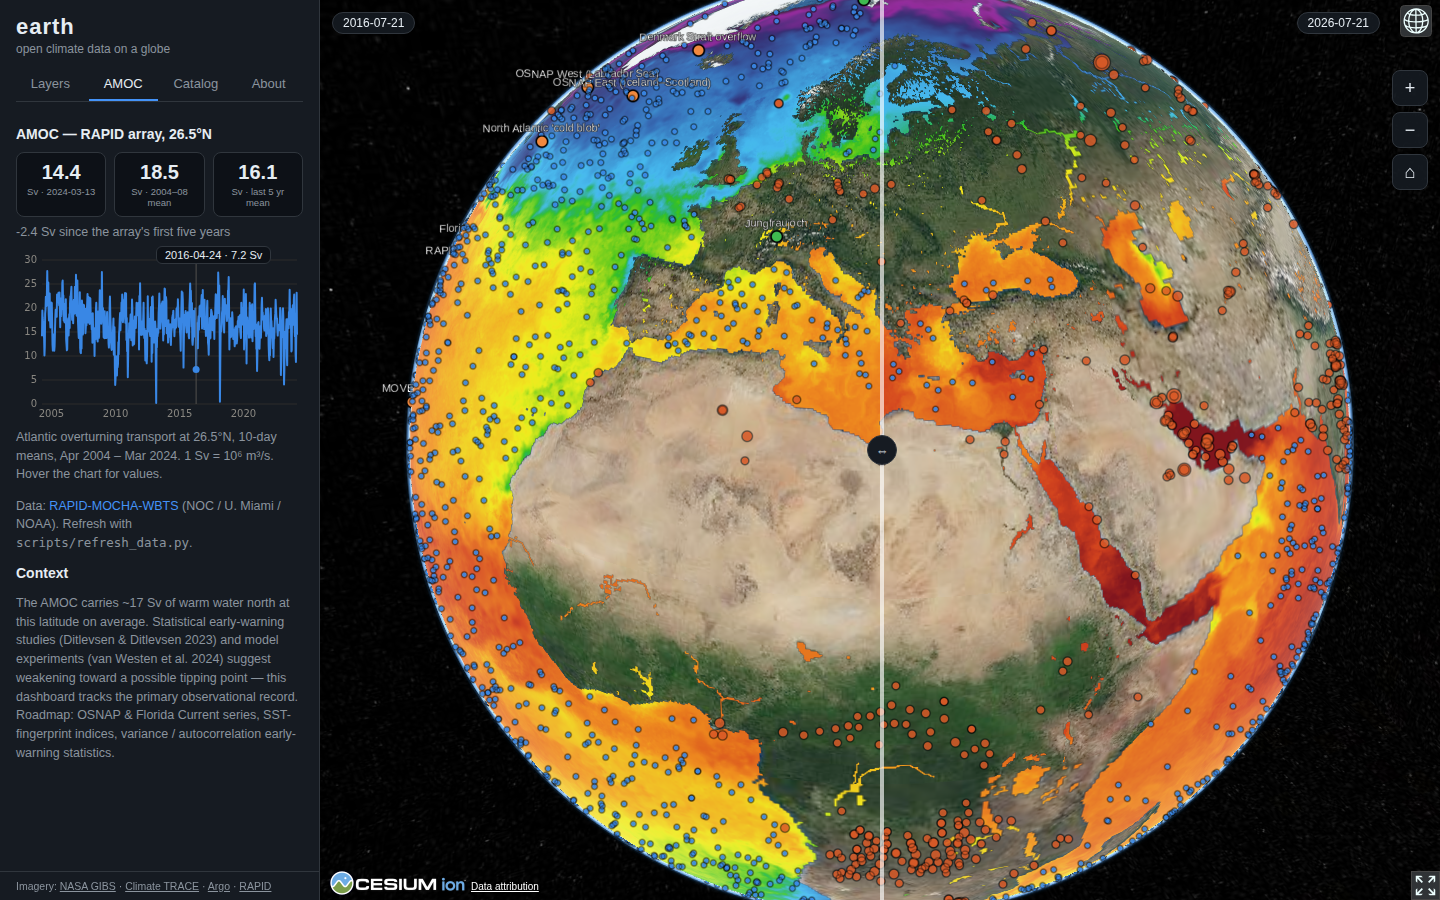
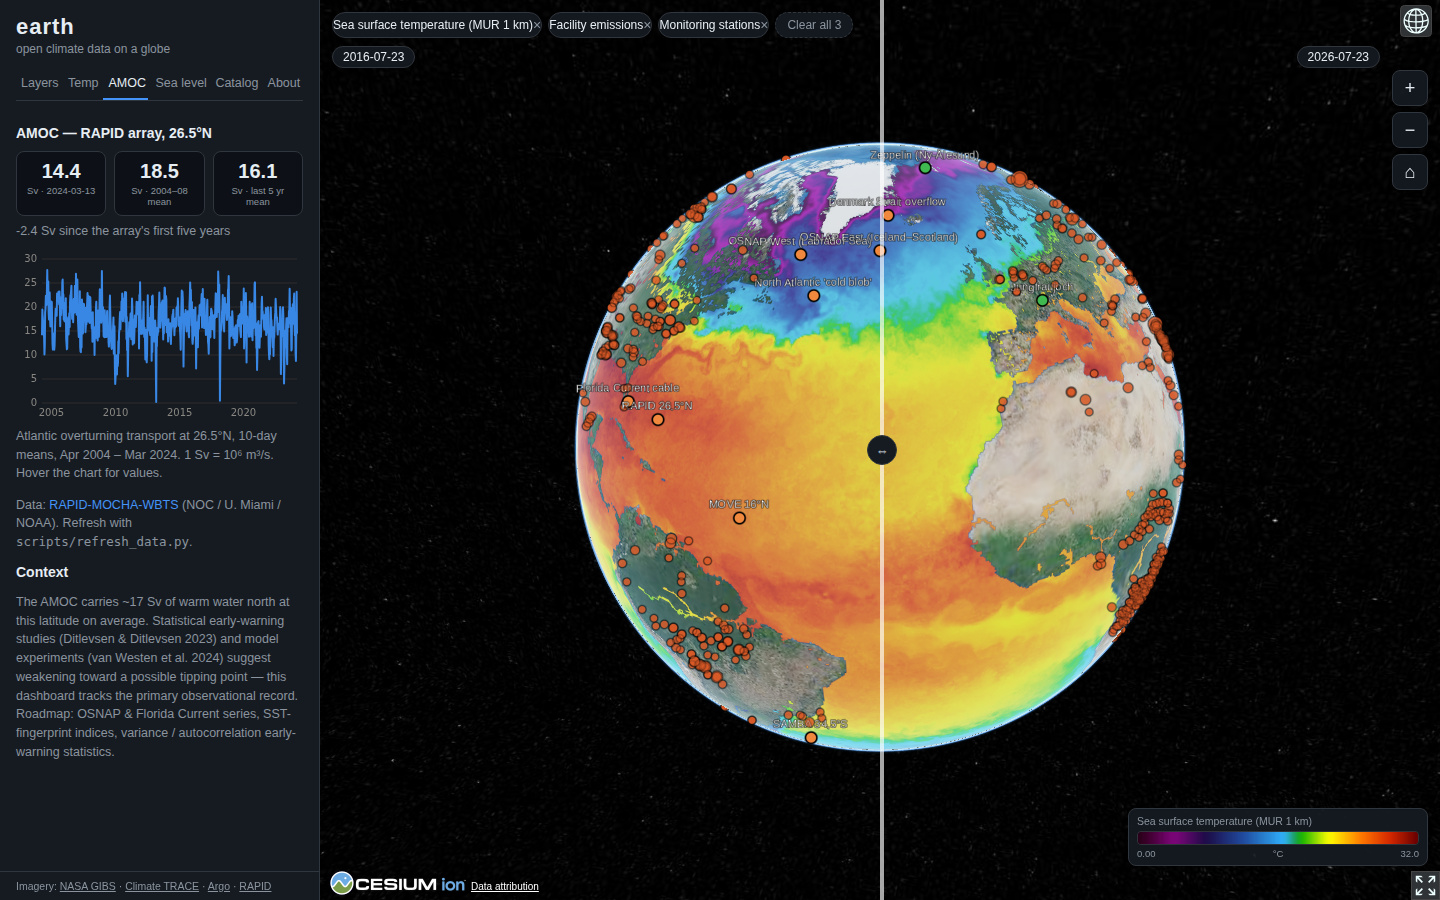
README: link the live demo up top, and bring it back in sync with the app
The README had drifted a long way behind the code. It advertised 241 catalog
records (244), 103 globe-ready datasets (108) and 22 specs (59), listed none of
the grid climatologies, glaciers, GISTEMP dashboard, salinity/chlorophyll/LST
layers, hover cards, value probe, dateless toasts or active-layer chips, and
still had "live point data" and "AMOC dashboard" on the roadmap months after
both shipped.

It also claimed "Pages only deploys when it is green", which is the opposite of
what the workflow does — the deploy job runs in parallel with the tests on
purpose, so that a prototype ships fixes forward rather than sitting behind a
red run. Stating the real policy is better than quietly having two.

Screenshot regenerated: the old one predates the Temp and Sea level tabs, so it
showed a four-tab app. Added scripts/screenshot.js so the next person doesn't
have to reconstruct the setup by hand.

Tabs now size to their labels instead of splitting the width equally: with six
of them in a 320 px sidebar the equal split wrapped "Sea level" onto a second
line, which the new screenshot made obvious.

diff --git a/scripts/screenshot.js b/scripts/screenshot.js
@@ -1,0 +1,63 @@
+#!/usr/bin/env node
+// Regenerates docs/screenshot.png (the README hero image).
+//
+// Run it the same way the tests run — through the sandbox proxies, so the
+// globe gets real GIBS tiles even where the browser has no direct egress:
+//
+//   scripts/run_tests.sh  ... is for tests; for the screenshot use:
+//   python3 scripts/test_proxy.py 8081 https://gibs.earthdata.nasa.gov &
+//   python3 scripts/test_proxy.py 8082 https://api.gbif.org &
+//   python3 -m http.server 8080 &
+//   MIRROR=1 node scripts/screenshot.js
+//
+// Without MIRROR it just points at http://localhost:8080 and uses the real
+// network, which is what you want on a normal machine.
+"use strict";
+const { chromium } = require("@playwright/test");
+const path = require("path");
+
+const BASE = process.env.BASE_URL || "http://localhost:8080";
+const CDN = "https://cdnjs.cloudflare.com/ajax/libs/cesium/1.133.1";
+const OUT = path.join(__dirname, "..", "docs", "screenshot.png");
+
+(async () => {
+  const browser = await chromium.launch({
+    executablePath: process.env.CHROMIUM_PATH || undefined,
+  });
+  const page = await browser.newPage({ viewport: { width: 1440, height: 900 } });
+
+  if (process.env.MIRROR) {
+    const proxy = (re, from, to) =>
+      page.route(re, async (route) => {
+        try {
+          const url = route.request().url().replace(from, to)
+            .replace("widgets.min.css", "widgets.css");
+          await route.fulfill({ response: await page.request.get(url) });
+        } catch {
+          await route.abort().catch(() => {});
+        }
+      });
+    await proxy(/https:\/\/cdnjs\.cloudflare\.com\/.*/, CDN, `${BASE}/_vendor/cesium`);
+    await proxy(/https:\/\/gibs\.earthdata\.nasa\.gov\/.*/,
+      "https://gibs.earthdata.nasa.gov", "http://localhost:8081");
+    await proxy(/https:\/\/api\.gbif\.org\/.*/, "https://api.gbif.org", "http://localhost:8082");
+  }
+
+  await page.goto(BASE);
+  await page.waitForFunction(() => window.__earth?.viewer, null, { timeout: 60000 });
+
+  // A representative state rather than the bare default: SST and the station
+  // network are on by default, Climate TRACE adds a third chip, the split
+  // comparison shows the swipe divider and its date labels sitting below the
+  // chip bar, and the AMOC dashboard fills the sidebar with real content.
+  await page.check("#toggle-climatetrace");
+  await page.selectOption("#compare-select", "10");
+  await page.selectOption("#compare-mode", "split");
+  await page.click("#tab-amoc");
+
+  // Let the tiles for both sides of the divider settle.
+  await page.waitForTimeout(15000);
+  await page.screenshot({ path: OUT });
+  await browser.close();
+  console.log(`wrote ${OUT}`);
+})();

diff --git a/src/style.css b/src/style.css
@@ -33,10 +33,13 @@ html, body {
 #sidebar h1 { margin: 0; font-size: 22px; letter-spacing: 1px; }
 #sidebar .tagline { margin: 2px 0 12px; color: var(--fg-dim); font-size: 12px; }
 
-nav { display: flex; gap: 4px; border-bottom: 1px solid var(--border); }
+nav { display: flex; gap: 2px; border-bottom: 1px solid var(--border); }
+/* Tabs size to their labels rather than sharing the width equally: with six of
+   them in a 320 px sidebar, an equal split wrapped "Sea level" onto two lines. */
 .tab {
-  flex: 1; padding: 8px 0; background: none; border: none; color: var(--fg-dim);
-  border-bottom: 2px solid transparent; cursor: pointer; font-size: 13px;
+  flex: 0 1 auto; padding: 8px 5px; background: none; border: none; color: var(--fg-dim);
+  border-bottom: 2px solid transparent; cursor: pointer; font-size: 12.5px;
+  white-space: nowrap; min-width: 0;
 }
 .tab.active { color: var(--fg); border-bottom-color: var(--accent); }
 

diff --git a/README.md b/README.md
@@ -1,47 +1,31 @@
 # earth 🌍
 
+### ▶ **[Open the live globe →](https://blauewelt.github.io/earth/)**
+
 **Open climate data on a 3D globe — and, eventually, predictions from it.**
 
-`earth` is a prototype for exploring the world's open climate data on an interactive CesiumJS globe, backed by a curated, machine-readable catalog of **241 open climate datasets** across atmosphere, ocean & AMOC, cryosphere, satellite platforms, model projections, greenhouse gases, and impacts.
+`earth` is a prototype for exploring the world's open climate data on an interactive CesiumJS globe, backed by a curated, machine-readable catalog of **244 open climate datasets** across atmosphere, ocean & AMOC, cryosphere, satellite platforms, model projections, greenhouse gases, and impacts.
 
 The long-term goal: layer enough observational and model data onto the globe to drive real prediction pipelines — starting with the question *will the AMOC collapse, and when?*
 
-![screenshot](docs/screenshot.png)
+[![screenshot](docs/screenshot.png)](https://blauewelt.github.io/earth/)
 
 ## Features (prototype)
 
-- **Zero API keys.** All imagery streams from [NASA GIBS](https://www.earthdata.nasa.gov/engage/open-data-services-software/earthdata-developer-portal/gibs-api) WMTS — no registration, no tokens, no build step.
-- **Time-dynamic layers** with a date picker, per-layer opacity, per-layer **doc links and legends**:
-  sea surface temperature (MUR 1 km), SST anomalies, true-color VIIRS, IMERG precipitation, AMSR2 sea ice, MODIS snow cover, aerosol optical depth, Black Marble night lights.
-- **Comparison** — any dated layer vs 1/2/5/10/20 years ago: side-by-side swipe with a draggable divider, or a **computed per-pixel difference** for SST (GIBS colormap inverted to °C client-side, diverging warmer/cooler).
-- **Rolling aggregation** — an *Aggregate* slider (1–730 days) averages SST over the past N days ending on the chosen date, independent of the comparison mode. "Past 365 days vs 10 years ago" reveals broad ocean warming and the subpolar cold blob cleanly, without daily weather noise.
-- **SST ensemble** — combines independent GHRSST L4 analyses (MUR, OISST, GAMSSA) client-side into a **mean** or a **spread** map; the spread highlights where analyses disagree (fronts, eddies, under-observed ocean).
-- **Live data layers** — Climate TRACE's top 1,000 facility emitters and the ~3,800-float Argo fleet as clickable points (`scripts/refresh_data.py` refreshes snapshots).
-- **AMOC dashboard** — the RAPID 26.5°N overturning transport record (2004–2024) with stat tiles and a hoverable chart.
-- **Sea-level budget dashboard** — observed global mean sea level 1900–2018 decomposed into its causes (thermal expansion, glaciers, Greenland, Antarctica, land water), with the summed budget tracking the observed line to show *closure*, plus modern satellite altimetry (Frederikse et al. 2020 + NOAA).
-- **Biodiversity layer** — GBIF occurrence-density tiles (3.9 B records, key-free), with a curated set of climate-indicator species (Atlantic mackerel, emperor penguin, staghorn coral …) whose shifting ranges are a visible fingerprint of warming. See [docs/SPECIES_AND_CLIMATE.md](docs/SPECIES_AND_CLIMATE.md).
-- **Zoom** — scroll, touch pinch, trackpad pinch (ctrl+wheel), and on-globe buttons.
-- **AMOC monitoring network** — the RAPID, OSNAP, MOVE, SAMBA arrays, the Florida Current cable, the subpolar "cold blob" fingerprint region, plus reference GHG stations (Mauna Loa, Jungfraujoch, …) as clickable markers with data links.
-- **Dataset catalog browser** — search and filter all 241 cataloged datasets by domain, AMOC relevance, and globe-readiness, straight from [`data/catalog.json`](data/catalog.json).
-
-## Testing
-
-The repo ships a Playwright regression suite (22 specs): data-snapshot integrity
-(catalog, RAPID series, Argo fleet, Climate TRACE, stations) and full browser tests
-(GIBS tiling-scheme math incl. the Pacific partial-tile regression, layer/date
-handling, comparison split + computed-delta mode, zoom & pinch gestures, point
-layers, legends, AMOC dashboard, catalog browser). CI runs the suite on every push
-and PR; **Pages only deploys when it is green.**
-
-```bash
-npm ci
-npx playwright install --with-deps chromium
-npx playwright test
-```
-
-In CI the suite reaches the real CDN, NASA GIBS, and GBIF. In a network-restricted
-sandbox, set `MIRROR=1` and run small local proxies for GIBS (`:8081`) and GBIF
-(`:8082`) plus the vendored Cesium under `_vendor/cesium`.
+- **Zero API keys, no build step.** All imagery streams from [NASA GIBS](https://www.earthdata.nasa.gov/engage/open-data-services-software/earthdata-developer-portal/gibs-api) WMTS and [GBIF](https://www.gbif.org/) — no registration, no tokens. Everything else is baked into small static JSON snapshots, so the page has no server of its own.
+- **Time-dynamic raster layers** with a date picker and per-layer opacity: true colour (VIIRS), sea surface temperature (MUR 1 km), SST anomalies (MUR25), precipitation (GPM IMERG V07, daily and 30-min), sea ice concentration (AMSR2), snow cover (MODIS NDSI), aerosol optical depth (MODIS), land surface temperature (MODIS), chlorophyll-*a* (PACE), sea surface salinity (SMAP, monthly), night lights (Black Marble).
+- **Climatology grid layers** rendered client-side from baked JSON: GPCP v2.3 global precipitation (2.5°), OISST v2.1 SST 1991–2020 (1°), E-OBS v31 European precipitation (0.25°), and the MeteoSwiss 1991–2020 Swiss precipitation normal (~2 km).
+- **Comparison** — any dated layer vs 1/2/5/10/20 years ago: side-by-side swipe with a draggable divider, or a **computed per-pixel difference** (the GIBS colormap is inverted client-side back to physical units, then re-ramped diverging warmer/cooler). Layers where differencing would be unsound say so instead of pretending.
+- **Rolling aggregation** — an *Aggregate* slider (1–730 days) averages over the past N days ending on the chosen date, for every continuous layer, and orthogonally to the comparison mode. The mean is per pixel with missing samples excluded, so clear-sky-only products fill their gaps instead of darkening. "Past 365 days vs 10 years ago" reveals broad ocean warming and the subpolar cold blob cleanly, without daily weather noise.
+- **SST ensemble** — combines independent GHRSST L4 analyses (MUR, OISST, GAMSSA) client-side into a **mean** or a **spread** map; the spread highlights where the analyses disagree (fronts, eddies, under-observed ocean).
+- **Every layer explains itself** — the title is a link to the dataset's own documentation, and a hover card gives a plain-language gist plus what period is *recorded*, at what *interval*, and at what *spatial* granularity. Colormapped layers carry an interactive legend, and hovering the globe probes the actual value under the cursor.
+- **Active-layer chips** on the globe list what is currently switched on, so any layer can be turned off in one click from any tab — including the dashboards, where the layer list isn't on screen at all.
+- **Point and inventory layers** — Climate TRACE's top 1,000 facility emitters · the ~3,800-float active Argo fleet · the AMOC monitoring network (RAPID, OSNAP, MOVE, SAMBA, the Florida Current cable, the subpolar "cold blob" region) and reference GHG stations (Mauna Loa, Jungfraujoch, …) as clickable markers with data links · all 274,531 glaciers of the Randolph Glacier Inventory v7, colourable by extent or by their 2000–2020 melt rate from Hugonnet et al. 2021 (240,542 matched; ~78% thinning, and the Karakoram anomaly is visible).
+- **Biodiversity layer** — GBIF occurrence-density tiles (3.9 B records, key-free) with a grouped picker: broad taxonomic categories (kingdoms, major animal and plant classes, humans) plus curated climate-indicator species (Atlantic mackerel, emperor penguin, staghorn coral …) whose shifting ranges are a visible fingerprint of warming. See [docs/SPECIES_AND_CLIMATE.md](docs/SPECIES_AND_CLIMATE.md).
+- **Dashboards** — *Temp*: GISTEMP v4 land vs land+ocean warming, 1880–2025, with trends. *AMOC*: the RAPID 26.5°N overturning transport record (2004–2024) with stat tiles and a hoverable chart. *Sea level*: observed global mean sea level 1900–2018 decomposed into its causes (thermal expansion, glaciers, Greenland, Antarctica, land water), with the summed budget tracking the observed line to show *closure*, plus modern satellite altimetry (Frederikse et al. 2020 + NOAA).
+- **Dataset catalog browser** — search and filter all 244 cataloged datasets by domain, AMOC relevance, and globe-readiness, straight from [`data/catalog.json`](data/catalog.json).
+- **Honest about time.** Layers that ignore the date selector (climatologies, night lights, the point and inventory layers) announce it with a warning toast when switched on, rather than leaving the date picker silently inert.
+- **Navigation** — scroll wheel, touch pinch, trackpad pinch (ctrl+wheel) and on-globe buttons; zoom is distance-proportional, and follows the standard convention where spreading fingers apart or scrolling up zooms in. An optional grayscale base keeps coloured overlays and blue-negative deltas readable.
 
 ## Run it
 
@@ -54,54 +38,87 @@ python3 -m http.server 8080
 # open http://localhost:8080
 ```
 
-Or just open the GitHub Pages deployment (enabled via the included workflow).
+Or just use the [live deployment](https://blauewelt.github.io/earth/), which GitHub Pages builds from `main` via the included workflow.
+
+## Testing
+
+The repo ships a Playwright regression suite (59 specs): data-snapshot integrity
+(`tests/data.spec.js` — catalog, RAPID series, Argo fleet, Climate TRACE, stations,
+sea-level budget, GISTEMP, glaciers, species, the four climatology grids) and full
+browser tests (`tests/app.spec.js` — GIBS tiling-scheme math including the Pacific
+partial-tile regression, layer and date handling, comparison split and computed-delta
+mode, aggregation, hover cards, legends, the value probe, active-layer chips, zoom and
+pinch gestures, point layers, dashboards, catalog browser).
+
+```bash
+npm ci
+npx playwright install --with-deps chromium
+npx playwright test
+```
+
+CI runs the full suite on every push and PR. Note that **Pages deploys in parallel
+rather than behind the tests** — this is a prototype, so a red run signals a
+fix-forward, not a blocked release.
+
+In CI the suite reaches the real CDN, NASA GIBS and GBIF. In a network-restricted
+sandbox, `MIRROR=1` reroutes cdnjs to the vendored Cesium under `_vendor/cesium` and
+GIBS/GBIF to local forwarding proxies; `scripts/run_tests.sh` starts everything and
+runs the suite in one shot.
 
 ## Repository layout
 
 ```
 CLAUDE.md               standing instructions + holistic project documentation
 index.html              the app shell
-src/app.js              CesiumJS globe, GIBS layers, stations, catalog UI
+src/app.js              CesiumJS globe, GIBS layers, grids, points, dashboards, catalog UI
 src/style.css           dark UI theme
 data/catalog.json       244-dataset open climate data catalog (machine-readable)
 data/stations.geojson   AMOC arrays + GHG reference stations
 data/rapid_moc.json     RAPID 26.5N AMOC transport series
 data/sealevel.json      sea-level budget (Frederikse 2020) + NOAA altimetry
+data/gistemp.json       GISTEMP v4 land vs land+ocean anomalies
+data/glaciers.json      RGI v7 glaciers + Hugonnet 2000-2020 melt rates
+data/species.json       GBIF taxon keys and record counts for the biodiversity picker
 data/climatetrace.json  top-1000 facility emitters · data/argo.json  active float fleet
-data/*.json             gridded climatologies (gpcp, eobs, oisst, meteoswiss), glaciers, gistemp
-scripts/refresh_data.py regenerates every snapshot above
+data/{gpcp,oisst,eobs,meteoswiss}.json   gridded climatologies (shared grid format)
+scripts/refresh_data.py regenerates every snapshot above (one function per dataset)
 scripts/build_primer.py rebuilds docs/PRIMER.pdf (background-knowledge primer)
+scripts/run_tests.sh    sandbox test runner · scripts/test_proxy.py  GIBS/GBIF proxies
+scripts/screenshot.js   regenerates docs/screenshot.png (the image above)
+tests/                  Playwright suite (app behaviour + data integrity)
 docs/CATALOG.md         the catalog as a readable reference document
-.github/workflows/      GitHub Pages deployment
+.github/workflows/      test + GitHub Pages deployment
 ```
 
 Conventions and the full record of what has been built live in
 [CLAUDE.md](CLAUDE.md) — read it before contributing.
 
-## Analysis notes
+## Documentation
 
-[docs/COMBINING_DATASETS.md](docs/COMBINING_DATASETS.md) analyses which of the catalog's
-datasets measure the same quantity, which combinations are scientifically sound (SST
-ensembles, the sea-level budget, the AMOC state vector, land+ocean temperature blends),
-and why per-pixel differencing works for SST but not precipitation.
+| Document | What it covers |
+|---|---|
+| [docs/PRIMER.pdf](docs/PRIMER.pdf) | Background knowledge: GIBS and WMTS, tiling schemes, colormaps, satellite product levels, what a climatology is |
+| [docs/COMBINING_DATASETS.md](docs/COMBINING_DATASETS.md) | Which catalog datasets measure the same quantity, which combinations are scientifically sound (SST ensembles, the sea-level budget, the AMOC state vector, land+ocean blends), and why per-pixel differencing works for SST but not precipitation |
+| [docs/SPECIES_AND_CLIMATE.md](docs/SPECIES_AND_CLIMATE.md) | Why biodiversity occurrence data belongs in a climate app |
+| [docs/CATALOG.md](docs/CATALOG.md) | The full catalog as a readable reference |
 
 ## The data catalog
 
 The catalog ([readable](docs/CATALOG.md) · [JSON](data/catalog.json)) records for each dataset: provider, canonical URL, access method (API endpoints where they exist), formats, variables, spatial/temporal coverage, update cadence, license, and two flags:
 
-- `globe` — easy to render on a WebGL globe (tiles / Zarr / COG / gridded), 103 datasets
+- `globe` — easy to render on a WebGL globe (tiles / Zarr / COG / gridded), 108 datasets
 - `amoc` — directly relevant to AMOC state estimation or tipping-point prediction, 58 datasets
 
 ## Roadmap
 
-1. **More layers** — Zarr-streamed gridded fields (ARCO-ERA5, CMIP6 projections) rendered client-side; Copernicus Marine WMTS (currents, sea level).
-2. **Live point data** — Climate TRACE facility emissions, Argo float positions, OpenAQ air quality, NASA FIRMS fires.
-3. **AMOC dashboard** — RAPID/OSNAP/MOVE/SAMBA transport time series (via [AMOCatlas](https://github.com/AMOCcommunity/amocatlas)), SST-fingerprint indices, early-warning statistics (variance, lag-1 autocorrelation).
+1. **More layers** — Zarr-streamed gridded fields (ARCO-ERA5, CMIP6 projections) rendered client-side; Copernicus Marine WMTS (currents, sea level); OpenAQ air quality and NASA FIRMS fires as point layers.
+2. **The two catalogued-but-unwired datasets** — OC-CCI and SMOS have no clean unauthenticated endpoint; they are represented on-globe today by NASA Ocean Color and SMAP respectively, and wiring the originals is an open follow-up.
+3. **Early-warning statistics** — SST-fingerprint indices and tipping indicators (variance, lag-1 autocorrelation) computed over the AMOC record, alongside the transport series already shown.
 4. **Prediction pipeline** — statistical tipping-time estimation (Ditlevsen & Ditlevsen 2023), physics-based FovS indicator across the CMIP6 ensemble (van Westen et al. 2024), presented as a distribution with honest uncertainty.
 
 ## Data credits
 
-Imagery courtesy of NASA GIBS / Worldview and NASA Blue Marble. Station metadata from the respective observing programs (RAPID, OSNAP, MOVE, SAMBA, NOAA AOML, NOAA GML, AGAGE, ICOS, WMO GAW). See [docs/CATALOG.md](docs/CATALOG.md) for the full source list.
+Imagery courtesy of NASA GIBS / Worldview and NASA Blue Marble. Occurrence data from GBIF. Station metadata from the respective observing programs (RAPID, OSNAP, MOVE, SAMBA, NOAA AOML, NOAA GML, AGAGE, ICOS, WMO GAW). Glacier outlines from the Randolph Glacier Inventory v7 with melt rates from Hugonnet et al. 2021. See [docs/CATALOG.md](docs/CATALOG.md) for the full source list.
 
 ## License
 

diff --git a/CLAUDE.md b/CLAUDE.md
@@ -174,7 +174,7 @@ name the layer in `<strong>` and state "the date selector doesn't change it".
 | File | Role |
 |---|---|
 | `CLAUDE.md` | Standing instructions + holistic record (this file — keep current) |
-| `README.md` | Quick start, repo layout, testing |
+| `README.md` | Quick start, repo layout, testing. Opens with a link to the live demo. Keep its counts (catalog size, `globe`/`amoc` flags, spec count) and feature list current — they drift silently. Hero image: `node scripts/screenshot.js` (see the header comment for the sandbox invocation); re-shoot it when the UI changes visibly |
 | `docs/PRIMER.pdf` | Background knowledge (GIBS, tiles, colormaps, product levels, climatologies). Rebuild: `python3 scripts/build_primer.py` |
 | `docs/CATALOG.md` + `data/catalog.json` | The 244-record open-data catalog (human + machine readable) |
 | `docs/COMBINING_DATASETS.md` | Which datasets measure the same quantity; sound combinations |
